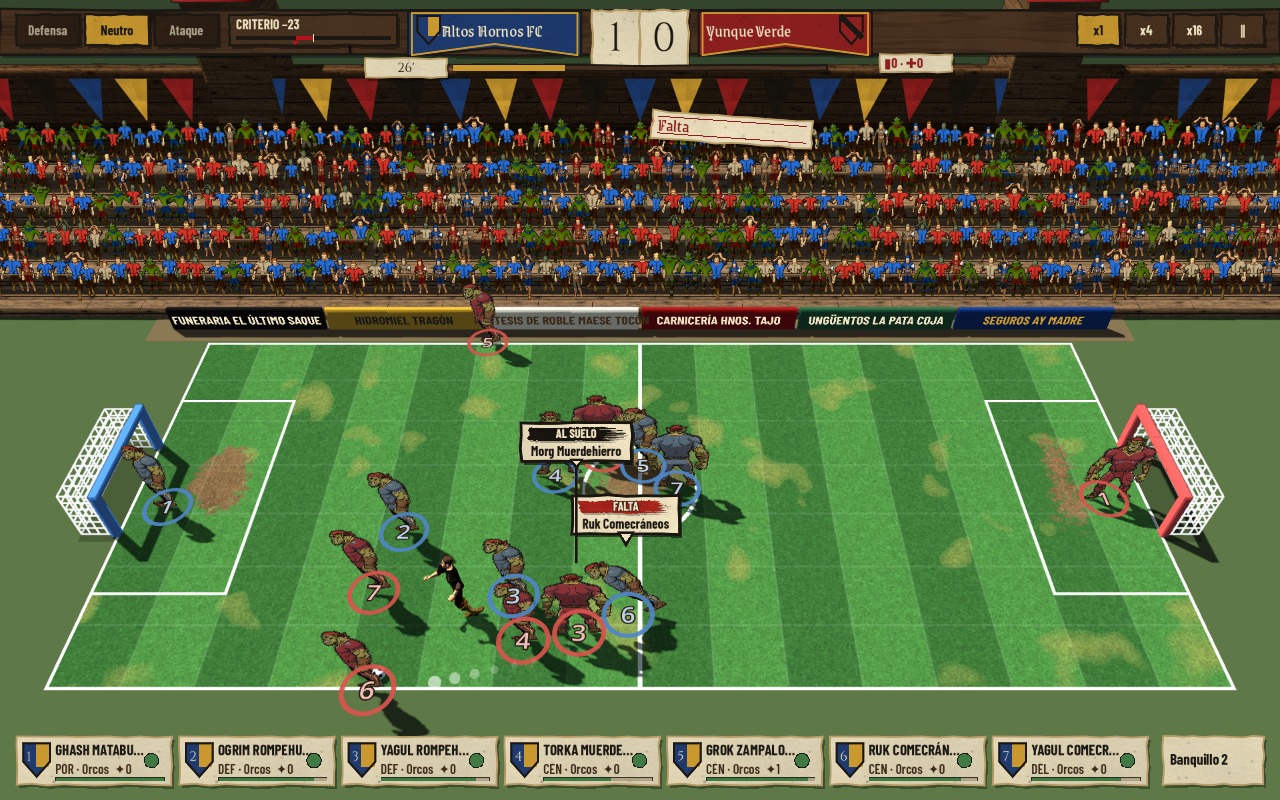
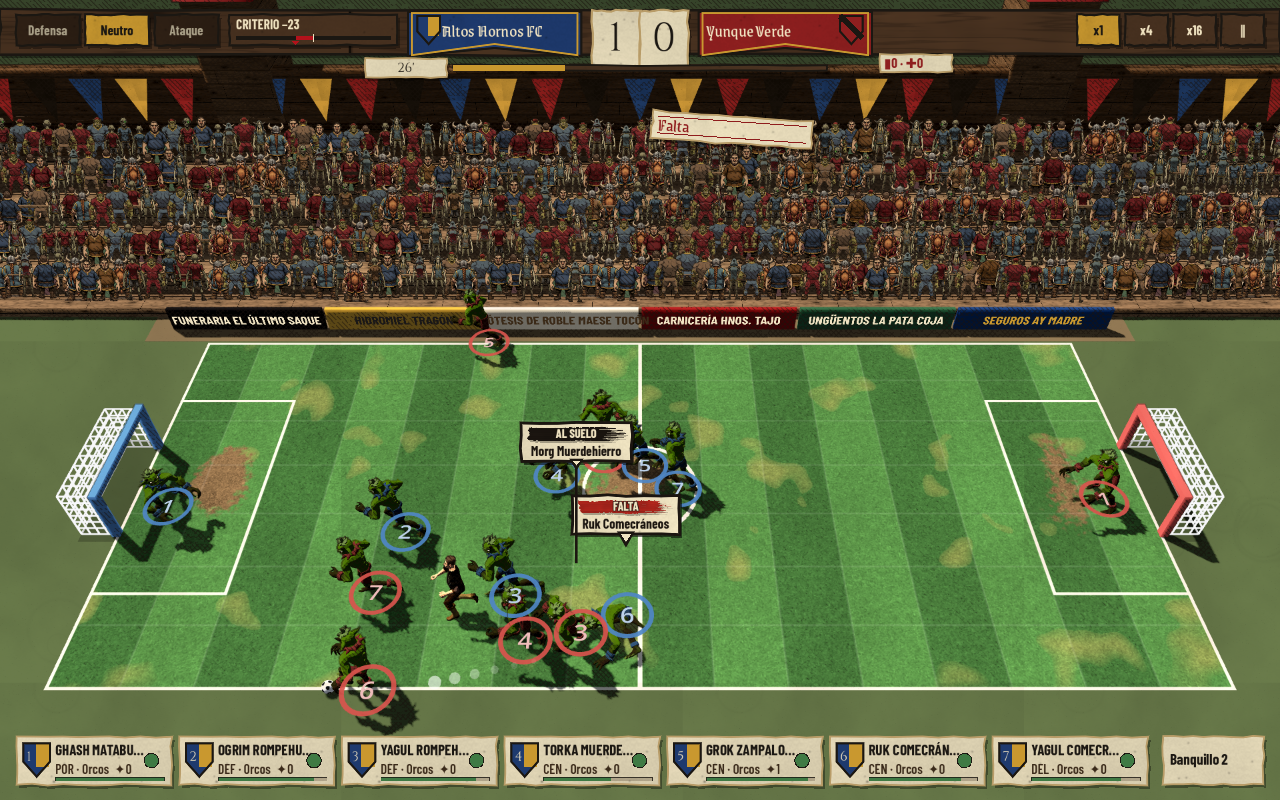
feat(game): acabado grease pencil en el partido 3D — rayado de lápiz en sombra, papel y paleta terrosa; plan de modelos desde las ilustraciones — CLAUDE.md regla 10
El revisor (9 oct): «lo que quiero es 3D con ese estilo 2D falso grease pencil que simule los retratos».
Vuelve el 3D por defecto (las figuras de papel quedan de reserva). docs/ui/modelos-3d.md reparte el
trabajo: forma con imagen-a-3D (Tripo/Meshy) y rig (Mixamo) por el revisor; aspecto, animación e
integración por Claude.

Claude-Session: https://claude.ai/code/session_01AQr5r97eKSSoLTrMCwntSb

diff --git a/Game/Ui/MatchPitchView3D.cs b/Game/Ui/MatchPitchView3D.cs
@@ -174,7 +174,7 @@ public partial class MatchPitchView3D : SubViewportContainer
     /// Prototipo 2D (9 oct 2026): los jugadores como figuras de papel ilustradas en lugar de modelos 3D. Activado por
     /// defecto para que el revisor lo vea; a <c>false</c>, la vista de antes.
     /// </summary>
-    public static bool PaperFigures { get; set; } = true;
+    public static bool PaperFigures { get; set; } = false;
 
     /// <summary>Las ilustraciones llevan la cabeza grande: algo más altas que el modelo para leerse igual de lejos.</summary>
     private const float PaperHeightScale = 1.15f;
@@ -265,6 +265,10 @@ public partial class MatchPitchView3D : SubViewportContainer
     /// <see cref="EventType.Foul"/> y <see cref="EventType.RefereeLeaves"/>.
     /// </summary>
     private const string InkOutlinePath = "res://Art/Shaders/ink_outline.gdshader";
+
+    private const string GreasePencilPath = "res://Art/Shaders/grease_pencil.gdshader";
+
+    private MeshInstance3D? _greasePencil;
 
     private const string CrowdShaderPath = "res://Art/Shaders/crowd.gdshader";
 
@@ -983,6 +987,22 @@ public partial class MatchPitchView3D : SubViewportContainer
 
         // Pase de arte (9 oct): contorno de tinta que hierve (Game/Art/Shaders/ink_outline.gdshader), un cuadrado de
         // pantalla completa colgado de la cámara. Sin el shader en disco, la vista de siempre.
+        // Debajo del contorno, el acabado de lápiz (rayado en sombra, papel, paleta terrosa): grease_pencil.gdshader.
+        if (ResourceLoader.Exists(GreasePencilPath))
+        {
+            var pencil = new ShaderMaterial { Shader = GD.Load<Shader>(GreasePencilPath), RenderPriority = -1 };
+            pencil.SetShaderParameter("paper_tex", Art.Parchment);
+            _greasePencil = new MeshInstance3D
+            {
+                Mesh = new QuadMesh { Size = new Vector2(2f, 2f) },
+                MaterialOverride = pencil,
+                ExtraCullMargin = 16384f,
+                CastShadow = GeometryInstance3D.ShadowCastingSetting.Off,
+                Position = new Vector3(0f, 0f, -1f),
+            };
+            _camera.AddChild(_greasePencil);
+        }
+
         if (ResourceLoader.Exists(InkOutlinePath))
         {
             _inkOutline = new MeshInstance3D
@@ -1987,6 +2007,11 @@ public partial class MatchPitchView3D : SubViewportContainer
         {
             // La silueta (RA-002) es una prueba de forma en blanco y negro: sin tinta añadida.
             _inkOutline.Visible = !SilhouetteMode;
+        }
+
+        if (_greasePencil is not null)
+        {
+            _greasePencil.Visible = !SilhouetteMode;
         }
 
         _environment.Environment = BuildEnvironment(SilhouetteMode);

diff --git a/docs/ui/modelos-3d.md b/docs/ui/modelos-3d.md
@@ -1,0 +1,17 @@
+# Modelos 3D desde las ilustraciones (plan del 9 oct 2026)
+
+El revisor quiere **3D con aspecto de dibujo a lápiz** que se parezca a los retratos de Nano Banana. Reparto realista:
+
+| Pieza | Quién | Cómo |
+|---|---|---|
+| Aspecto (rayado en sombra, contorno que hierve, papel, sombreado por bandas) | Claude | shaders: `Game/Art/Shaders/grease_pencil.gdshader`, `ink_outline.gdshader`, `team_tint.gdshader` (hecho, se ajusta con los modelos nuevos) |
+| Forma de los cuerpos (que se parezcan a las ilustraciones) | revisor, con generador de imagen a 3D | Tripo (tripo3d.ai) o Meshy (meshy.ai), nivel gratuito por web: subir `out/arte/para-3d/<raza>_frente.png` (de frente, fondo blanco, recortado de la hoja de modelo) → «image to 3D» con textura → descargar `.glb` |
+| Esqueleto | revisor | Tripo trae «auto rig» humanoide; si no, Mixamo (mixamo.com, gratis) → subir el `.fbx`/`.obj`, colocar los marcadores, descargar **sin animación** (T-pose) |
+| Animación | Claude | los 15 clips de fútbol de Mixamo se reasignan a cualquier esqueleto humanoide con el `BoneMap` de `Game/models/retarget/` (ya funciona con Quaternius) |
+| Integración (equipo teñido, alturas por raza, IK de pies, balón al pie) | Claude | `PlayerModel` cambia de receta; nada en `/Sim` |
+
+**Qué dejar a Claude:** los `.glb` (o `.fbx`) en `out/arte/para-3d/entrada/<raza>.glb`. Con uno (el orco) basta para
+probar el camino entero antes de hacer los otros cuatro.
+
+**Lo que Claude no puede hacer bien:** esculpir modelos ni animar a mano fotograma a fotograma. El prototipo 2D de
+figuras de papel (`PaperFigure`, `MatchPitchView3D.PaperFigures`) queda desactivado y de reserva.
